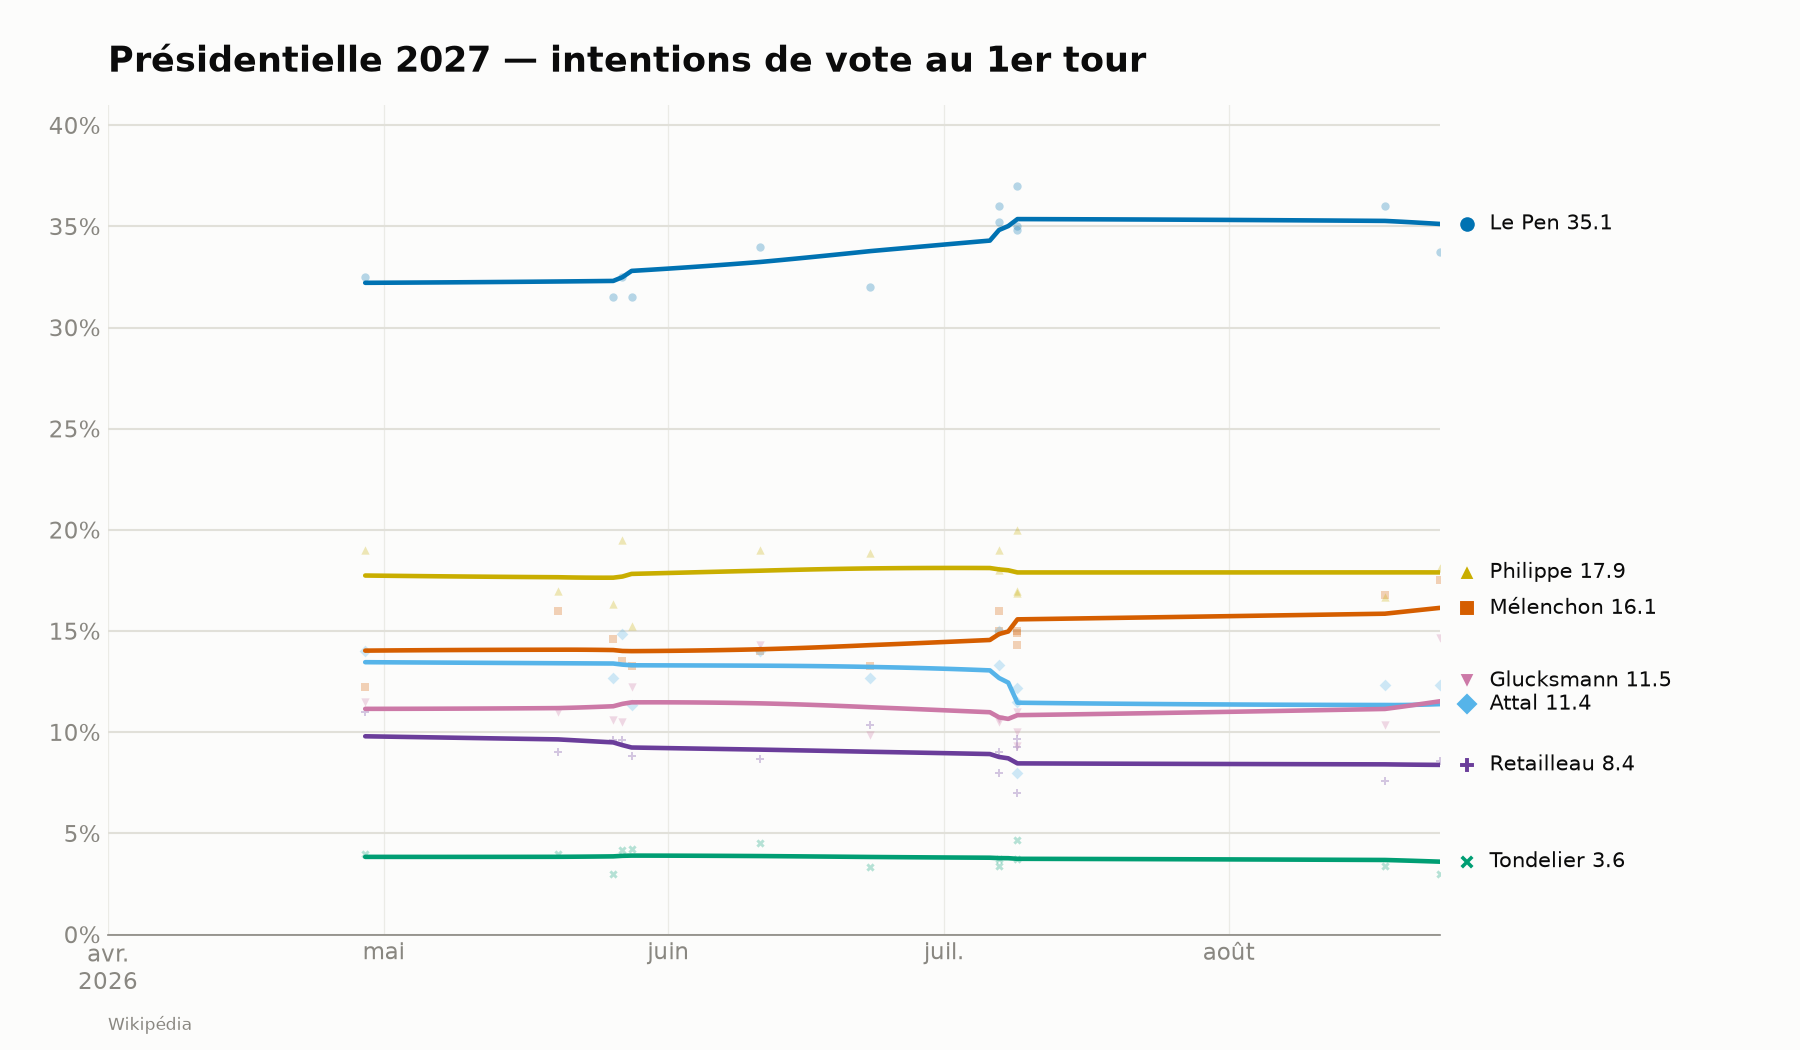
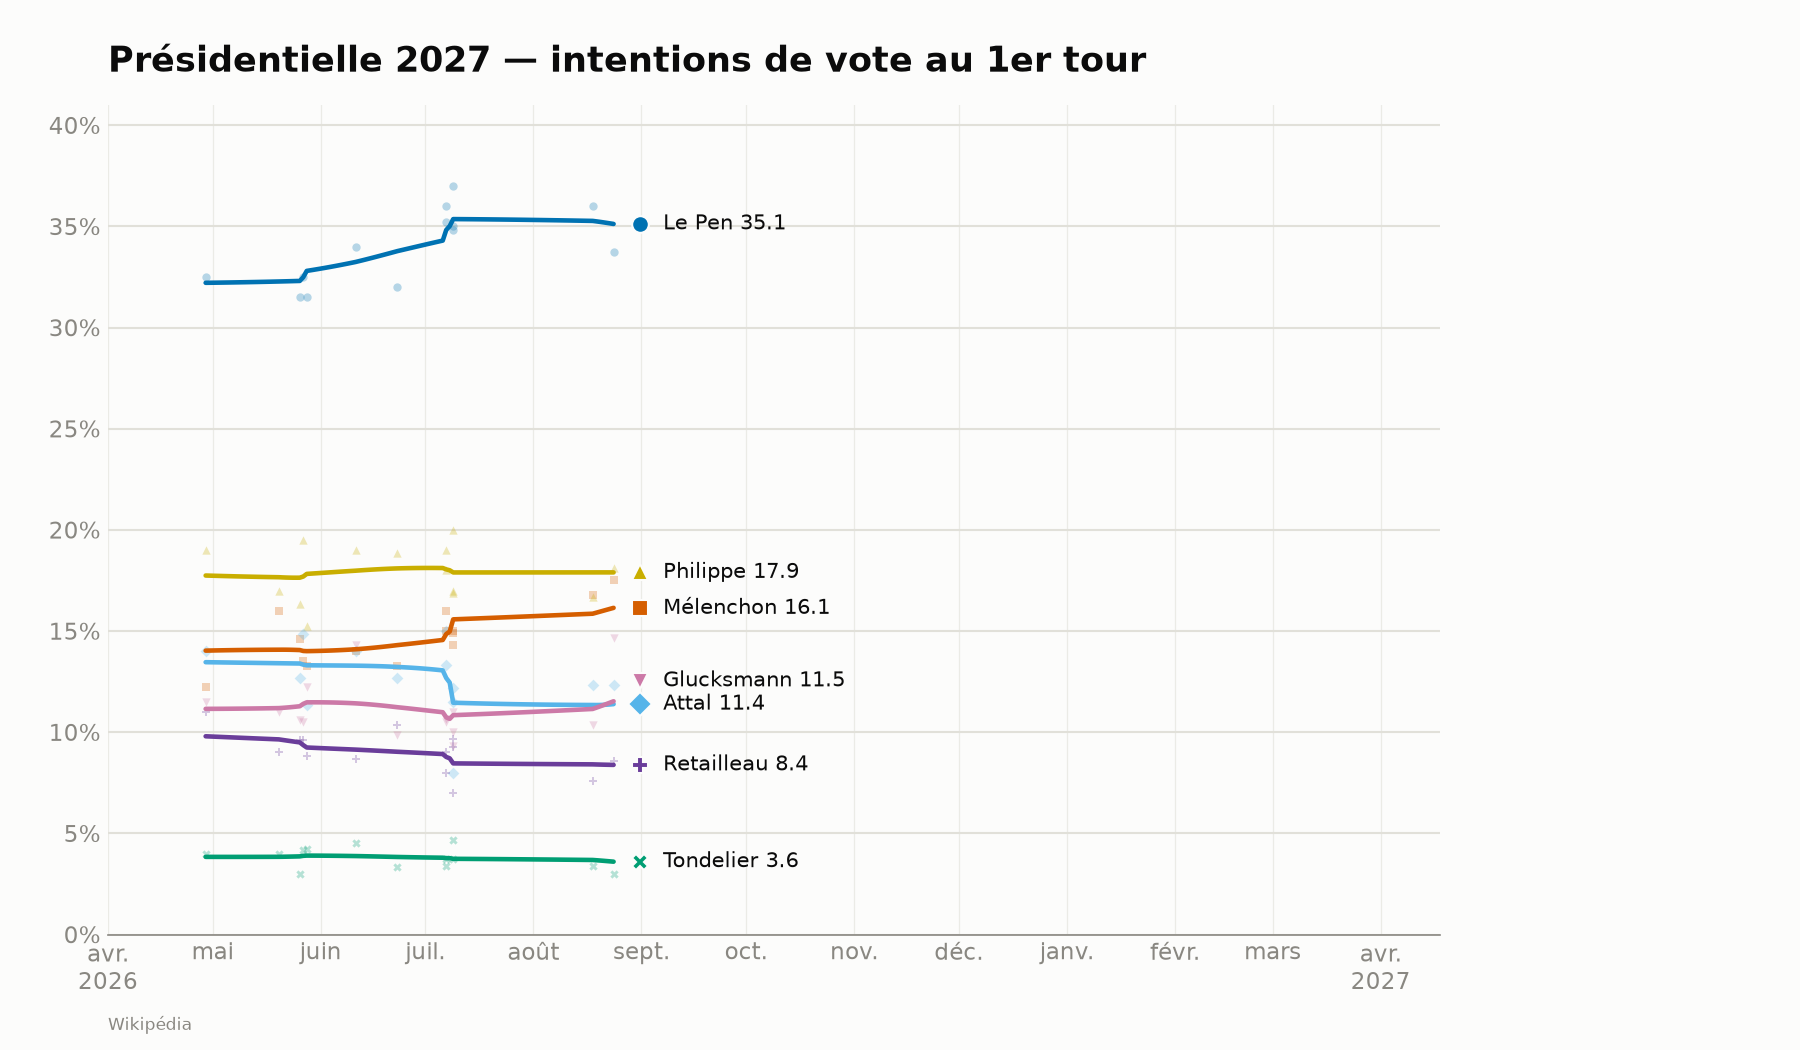
Étend l'axe du graphique 2027 jusqu'au 18 avril 2027
Les courbes s'arrêtent toujours au dernier sondage réel, mais l'axe
va maintenant jusqu'à une date de comparaison (pas encore officielle),
pour que le graphique 2027 couvre la même durée que ceux de 2017 et
2022 et reste comparable d'un coup d'œil.

diff --git a/Sondpres/sondages_2027.py b/Sondpres/sondages_2027.py
@@ -91,7 +91,11 @@ class ElectionConfig:
     candidates: list[tuple[str, str, str]]   # (nom, couleur, marqueur)
     outfile: str
     aliases: dict[str, list[str]] = field(default_factory=dict)
-    election_date: date | None = None  # jour du 1er tour, si l'élection a déjà eu lieu
+    # Jour du 1er tour : la vraie date si l'élection a eu lieu (le graphique
+    # y affiche alors le résultat réel), sinon une date encore à venir pour
+    # que l'axe s'arrête au même point que les élections passées et reste
+    # comparable, même si les courbes, elles, s'arrêtent avant.
+    election_date: date | None = None
 
 
 CONFIGS: dict[int, ElectionConfig] = {
@@ -109,6 +113,7 @@ CONFIGS: dict[int, ElectionConfig] = {
         # indécise) : rattachée à Le Pen pour une courbe continue.
         aliases={"Le Pen": ["Le Pen", "Candidat RN"]},
         outfile="sondages_2027.png",
+        election_date=date(2027, 4, 18),  # pas encore officielle : juste pour caler l'axe
     ),
     2022: ElectionConfig(
         year=2022,
@@ -486,8 +491,13 @@ def make_chart(df: pd.DataFrame, config: ElectionConfig, final_results: dict,
 
     xmin = num(config.start)
     last_poll_x = df["date"].map(num).max()
-    has_result = bool(final_results) and config.election_date is not None
-    xmax = num(config.election_date) if has_result else last_poll_x
+    has_result = bool(final_results)
+    # l'axe peut s'étendre au-delà du dernier sondage (ex. jusqu'au jour du
+    # vote pour 2027, pas encore connu, juste pour rester comparable aux
+    # élections passées) ; le marqueur de fin, lui, reste au vrai dernier
+    # point connu tant qu'il n'y a pas de résultat réel à afficher.
+    axis_xmax = num(config.election_date) if config.election_date else last_poll_x
+    marker_x = axis_xmax if has_result else last_poll_x
     grid = np.arange(xmin, last_poll_x + 1)
 
     end_labels = []  # (y, couleur, marqueur, texte) pour placement anti-collision
@@ -516,9 +526,9 @@ def make_chart(df: pd.DataFrame, config: ElectionConfig, final_results: dict,
             # pont en pointillés entre le dernier sondage et le résultat réel,
             # marqué distinctement (cerclage foncé) pour qu'il ne soit jamais
             # confondu avec une simple estimation de sondage.
-            ax.plot([gg[-1], xmax], [sm[-1], final_v], color=color, lw=1.3,
+            ax.plot([gg[-1], marker_x], [sm[-1], final_v], color=color, lw=1.3,
                     ls=(0, (1, 1.6)), zorder=3)
-            ax.plot(xmax, final_v, marker=marker, color=color, ms=11,
+            ax.plot(marker_x, final_v, marker=marker, color=color, ms=11,
                     markeredgecolor=INK, markeredgewidth=1.1, zorder=4, clip_on=False)
             end_labels.append([final_v, color, marker, f"{name} {final_v:.1f}"])
         else:
@@ -530,7 +540,7 @@ def make_chart(df: pd.DataFrame, config: ElectionConfig, final_results: dict,
     for i in range(1, len(end_labels)):
         if end_labels[i][0] - end_labels[i - 1][0] < min_gap:
             end_labels[i][0] = end_labels[i - 1][0] + min_gap
-    x_lab = xmax + (xmax - xmin) * 0.02
+    x_lab = marker_x + (axis_xmax - xmin) * 0.02
     for yv, color, marker, txt in end_labels:
         ax.plot(x_lab, yv, marker=marker, color=color, ms=8, clip_on=False,
                 markeredgecolor=SURFACE, markeredgewidth=1.0, zorder=5)
@@ -540,7 +550,7 @@ def make_chart(df: pd.DataFrame, config: ElectionConfig, final_results: dict,
 
     # --- axes / habillage -----------------------------------------------------
     data_max = max(df["valeur"].max(), max(final_results.values(), default=0))
-    ax.set_xlim(xmin, xmax)
+    ax.set_xlim(xmin, axis_xmax)
     ax.set_ylim(0, max(40, data_max + 4))
     ax.xaxis.set_major_locator(mdates.MonthLocator())
 
